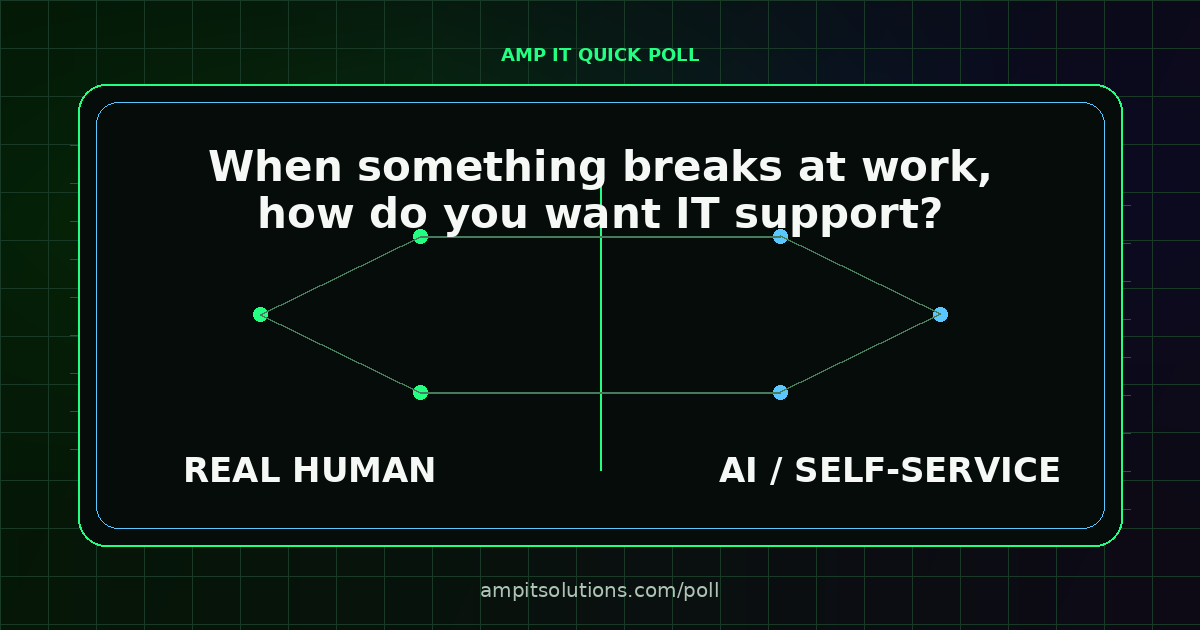
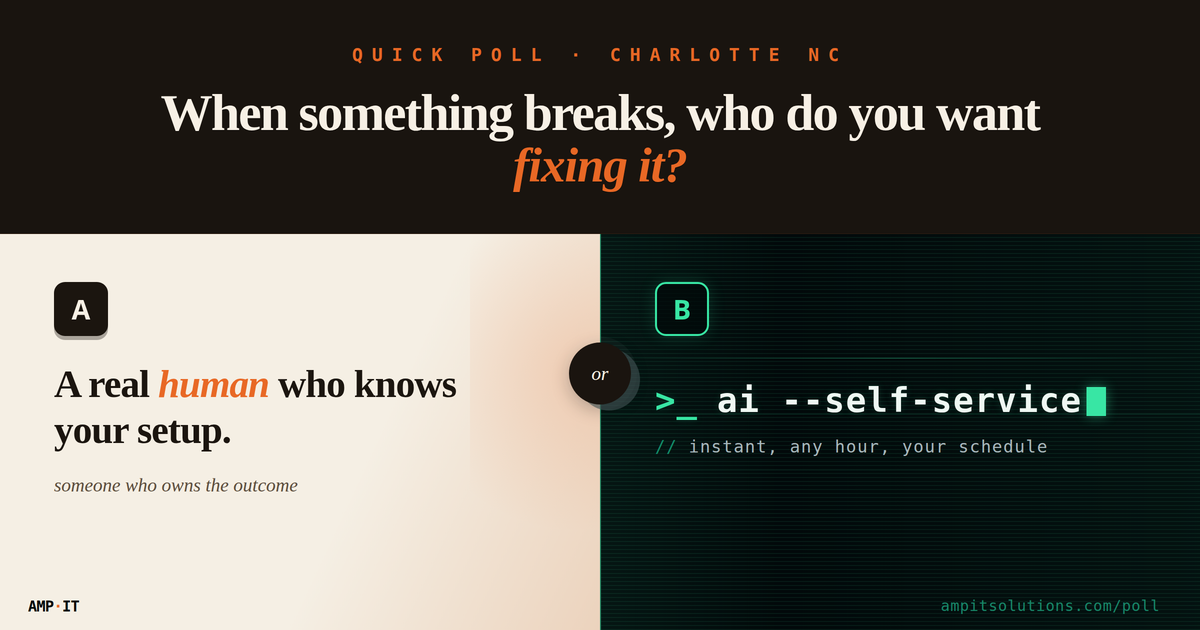
Render poll art from website design

diff --git a/docs/poll-art-source.html b/docs/poll-art-source.html
@@ -1,0 +1,9 @@
+<!doctype html>
+<html>
+<head>
+<meta charset="utf-8">
+<title>AMP IT Poll Art Source</title>
+<style>
+  :root{--ink:#17120d;--cream:#f4eee1;--cream2:#efd7c2;--orange:#e86825;--green:#38e6a4;--terminal:#02090a;--muted:#a98f73;}
+  *{box-sizing:border-box}body{margin:0;background:#111;color:var(--cream);font-family:ui-serif,Georgia,'Times New Roman',serif}.frame{width:2400px;height:1260px;overflow:hidden;background:var(--ink);position:relative}.top{height:468px;background:#19140f;display:flex;flex-direction:column;align-items:center;justify-content:center;padding-top:8px;border-bottom:1px solid rgba(232,104,37,.12)}.kicker{font-family:ui-monospace,SFMono-Regular,Menlo,Consolas,monospace;color:var(--orange);letter-spacing:18px;font-weight:700;font-size:36px;margin-bottom:44px;text-transform:uppercase}h1{font-size:104px;line-height:.98;font-weight:900;letter-spacing:-3.2px;margin:0;text-align:center;color:#f7f0e5;text-shadow:0 2px 0 rgba(0,0,0,.16)}h1 em{display:block;color:var(--orange);font-style:italic;font-size:98px;line-height:1.12;letter-spacing:-2px}.bottom{position:absolute;left:0;right:0;bottom:0;height:792px;display:grid;grid-template-columns:1fr 1fr}.human{position:relative;background:linear-gradient(115deg,#f5efe4 0%,#f5efe4 60%,#ecd3bd 100%);color:#1b150f;padding:96px 108px;overflow:hidden}.human:after{content:"";position:absolute;right:-160px;top:0;width:420px;height:100%;background:radial-gradient(circle at 50% 34%,rgba(232,104,37,.16),transparent 58%);pointer-events:none}.ai{position:relative;background:#02090a;color:#eff8f3;padding:96px 108px;overflow:hidden;border-left:2px solid rgba(56,230,164,.55)}.ai:before{content:"";position:absolute;inset:0;background:repeating-linear-gradient(0deg,rgba(56,230,164,.08) 0px,rgba(56,230,164,.08) 2px,transparent 2px,transparent 8px),linear-gradient(90deg,rgba(56,230,164,.06),transparent 30%,rgba(56,230,164,.04))}.ai:after{content:"";position:absolute;left:0;right:0;top:248px;height:1px;background:linear-gradient(90deg,transparent,rgba(56,230,164,.55),transparent);box-shadow:0 112px 0 rgba(56,230,164,.18),0 224px 0 rgba(56,230,164,.1)}.badge{position:relative;z-index:2;width:108px;height:108px;border-radius:22px;background:#1b150f;color:#f8f0e5;display:grid;place-items:center;font:800 54px/1 ui-sans-serif,system-ui,sans-serif;box-shadow:0 8px 0 rgba(27,21,15,.34);margin-bottom:50px}.ai .badge{background:rgba(2,9,10,.74);color:var(--green);border:4px solid var(--green);box-shadow:0 0 34px rgba(56,230,164,.16)}.copy{position:relative;z-index:2}.human .headline{font-size:78px;line-height:1.18;font-weight:900;letter-spacing:-1.6px;max-width:920px;margin-top:0}.human .headline em{color:var(--orange);font-style:italic}.human .sub{font-size:38px;line-height:1.2;font-style:italic;color:#5c4d3c;margin-top:42px}.ai .terminal{position:relative;z-index:2;margin-top:92px;margin-left:0;font-family:ui-monospace,SFMono-Regular,Menlo,Consolas,monospace;white-space:nowrap}.ai .cmd{font-size:68px;line-height:1.1;font-weight:800;letter-spacing:2px;text-shadow:0 0 18px rgba(56,230,164,.14)}.ai .prompt{color:var(--green);margin-right:38px}.ai .cursor{display:inline-block;width:39px;height:58px;background:var(--green);vertical-align:-8px;margin-left:9px;box-shadow:0 0 24px rgba(56,230,164,.45)}.ai .comment{margin-top:34px;margin-left:0;color:#a8b8bc;font-size:34px;letter-spacing:2px}.ai .comment span{color:#128b69}.or{position:absolute;left:50%;top:685px;transform:translateX(-50%);z-index:4;width:124px;height:124px;border-radius:999px;background:#1a140f;color:#fff7e7;display:grid;place-items:center;font:italic 38px/1 ui-serif,Georgia,serif;box-shadow:18px 12px 0 rgba(65,82,83,.6),0 0 0 12px rgba(255,255,255,.035),0 10px 34px rgba(0,0,0,.26)}.brand{position:absolute;left:56px;bottom:30px;font-family:ui-monospace,SFMono-Regular,Menlo,Consolas,monospace;font-weight:900;font-size:30px;color:#02090a;letter-spacing:-1px;z-index:5}.brand span{color:var(--orange)}.url{position:absolute;right:80px;bottom:31px;font-family:ui-monospace,SFMono-Regular,Menlo,Consolas,monospace;font-size:30px;color:#178567;letter-spacing:1px;z-index:5}body.card-human .frame{width:1200px;height:820px}body.card-human .top,body.card-human .ai,body.card-human .or,body.card-human .url{display:none}body.card-human .bottom{height:820px;display:block}body.card-human .human{width:1200px;height:820px;padding:118px 108px}body.card-human .brand{bottom:36px}body.card-ai .frame{width:1200px;height:820px}body.card-ai .top,body.card-ai .human,body.card-ai .or,body.card-ai .brand{display:none}body.card-ai .bottom{height:820px;display:block}body.card-ai .ai{width:1200px;height:820px;border-left:0;padding:112px 108px}body.card-ai .url{bottom:36px}body.card-ai .ai .terminal{margin-top:96px}body.card-ai .ai .cmd{font-size:66px}body.card-ai .ai .comment{font-size:32px}
+</style></head><body><div class="frame"><section class="top"><div class="kicker">Quick Poll · Charlotte NC</div><h1>When something breaks, who do you want<br><em>fixing it?</em></h1></section><main class="bottom"><section class="human"><div class="badge">A</div><div class="copy"><div class="headline">A real <em>human</em> who knows<br>your setup.</div><div class="sub">someone who owns the outcome</div></div></section><section class="ai"><div class="badge">B</div><div class="terminal"><div class="cmd"><span class="prompt">&gt;_</span>ai --self-service<span class="cursor"></span></div><div class="comment"><span>//</span> instant, any hour, your schedule</div></div></section></main><div class="or">or</div><div class="brand">AMP<span>·</span>IT</div><div class="url">ampitsolutions.com/poll</div></div><script>const q=new URLSearchParams(location.search);const mode=q.get('mode');if(mode)document.body.className=mode;</script></body></html>

diff --git a/index.html b/index.html
@@ -1231,7 +1231,7 @@
 
     <div class="poll-choices" id="pollChoices">
       <button class="poll-choice" data-choice="human" id="choiceHuman">
-        <img class="poll-card-hero" src="poll-human-support.svg" alt="" aria-hidden="true" width="1200" height="820">
+        <img class="poll-card-hero" src="poll-human-support.png" alt="" aria-hidden="true" width="1200" height="820">
         <div class="poll-card-overlay"></div>
         <div class="poll-card-quote">
           <p>"Some problems are just better solved with a <strong>human.</strong>"</p>
@@ -1247,7 +1247,7 @@
         </div>
       </button>
       <button class="poll-choice" data-choice="ai" id="choiceAi">
-        <img class="poll-card-hero" src="poll-ai-guardrails.svg" alt="" aria-hidden="true" width="1200" height="820">
+        <img class="poll-card-hero" src="poll-ai-guardrails.png" alt="" aria-hidden="true" width="1200" height="820">
         <div class="poll-card-overlay"></div>
         <div class="poll-card-quote">
           <p>"Some problems are faster to solve on your own with <strong>AI.</strong>"</p>